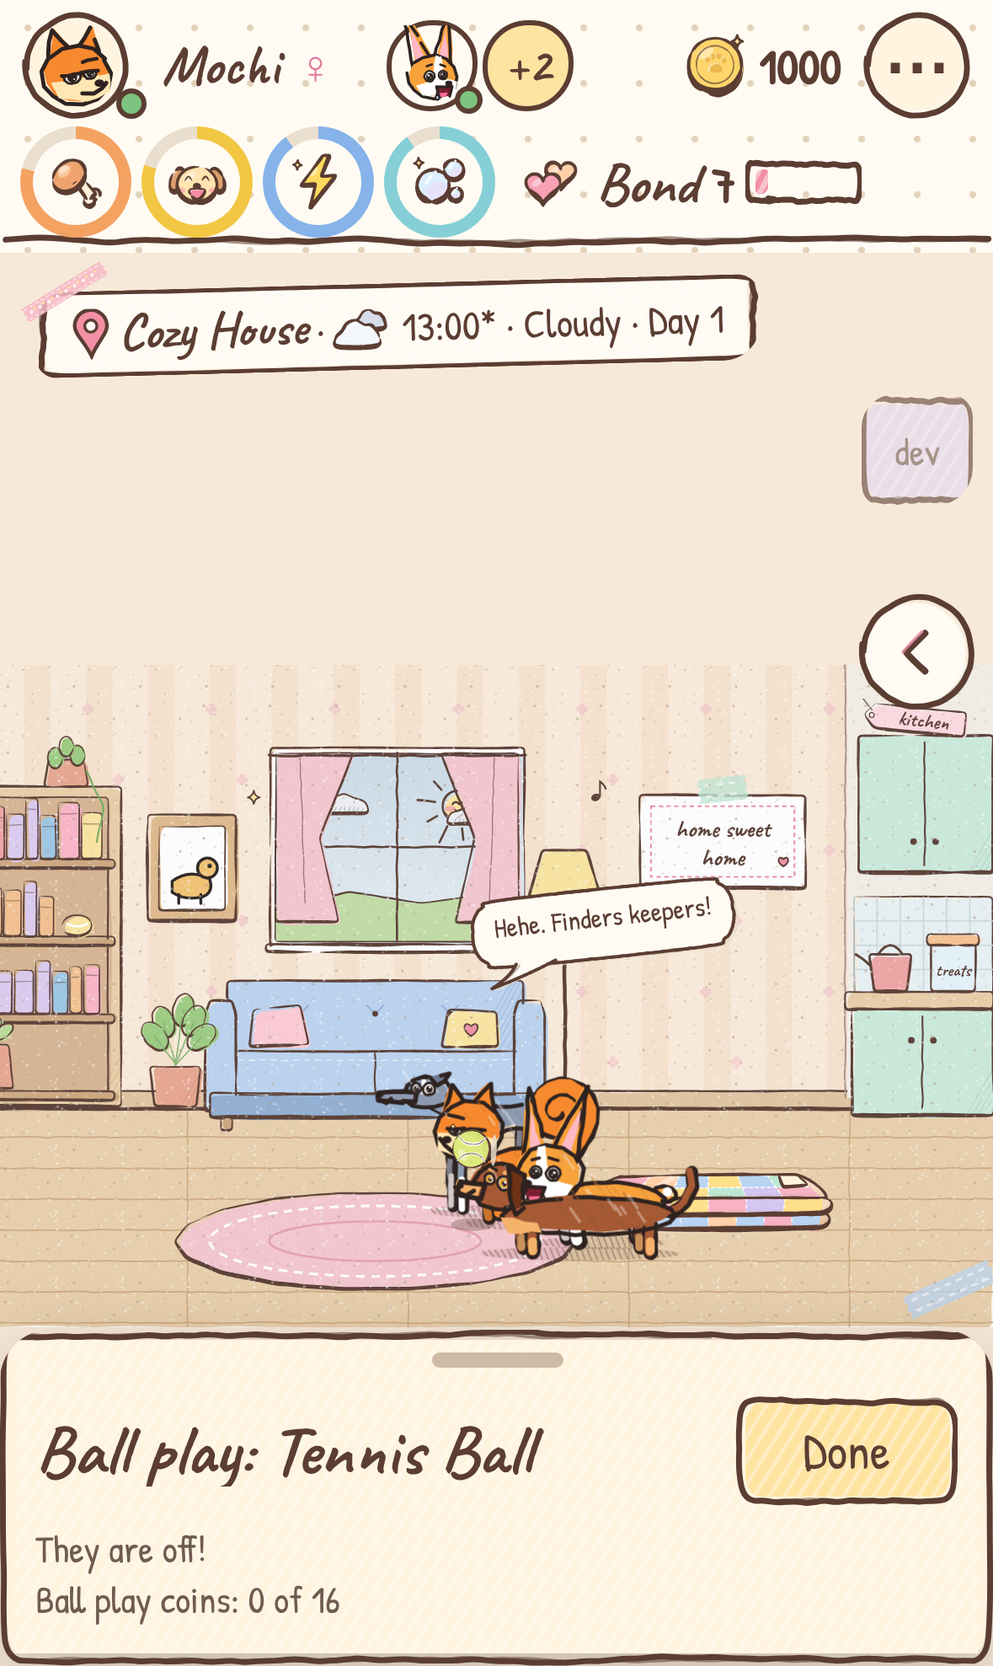
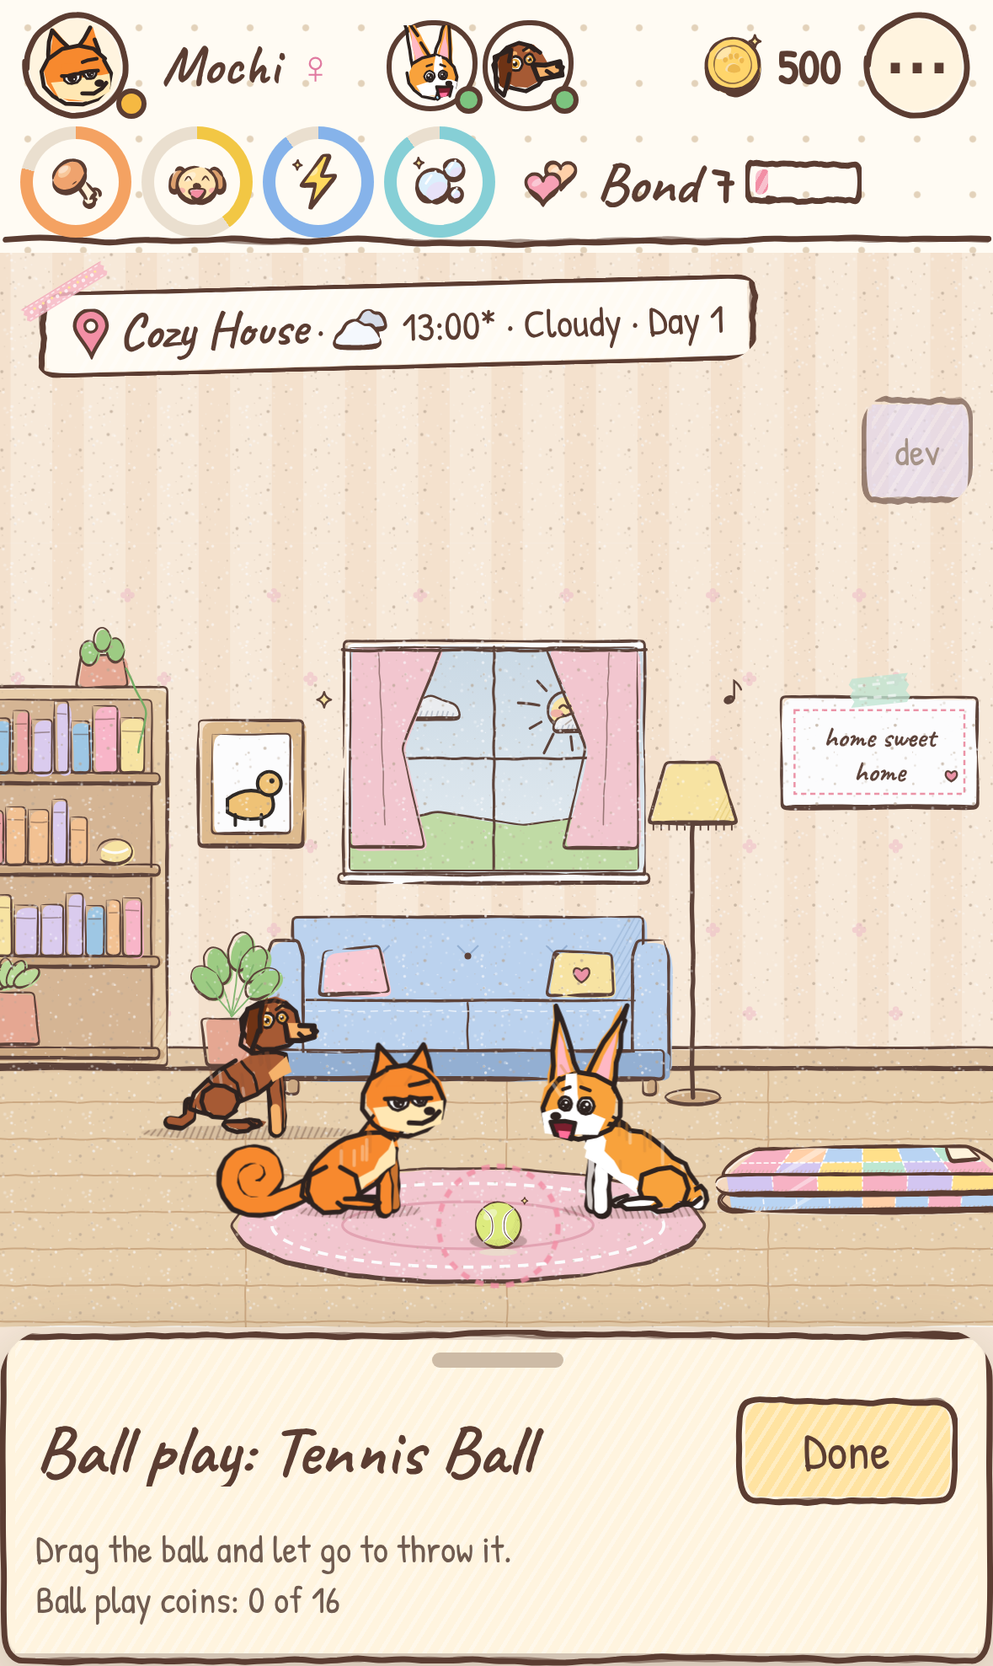
v2.10 ball play: review fix batch (scene taps, stuck dogs, phone crop, mouth carry)
- Scene taps during ball play open nothing: setTray guard plus the dog
  house, bowl, bed and decoration handlers (03_yard.js); html.bl-on makes
  every scene prop inert (40_ball.css) and blocks Enter on them, while
  #placeBtns keep working; #phPeek hides while playing.
- Stuck dogs: blVia ignores the 6-unit margin of a box the start/end is
  already in (dog-house edge), returns false when fully boxed in, and a
  non-chasing dog boxed in for 0.5 s hops onto its target.
- Phones: ball crop capped at 760 units; the band above continues the
  scene's full-height layers (paper grain, wallpaper) and hides the top
  corner washi tape.
- The carried ball sits in the mouth per breed (head data from the art);
  the dog that brought it hops then walks to its spot.
- Tests: Pip energy 5 (timing flake), boxed-in dog and scene-tap checks,
  phone crop 760, peek, sky band and prop checks; new phone shots.

Claude-Session: https://claude.ai/code/session_013kR9gLi56X3b1tF9W51g7u

diff --git a/game/src/38_ball.js b/game/src/38_ball.js
@@ -207,7 +207,8 @@ function blSegHits(x0, y0, x1, y1, L, T, R, B) {
 // a straight run that would cross a no-go box (the dog house, the bowl, a decoration) goes round the boxes' corners: the first stop of the shortest way
 function blVia(x0, y0, x1, y1) {
   const Z = BL.zone; if (!Z.no.length) return null;
-  const bx = Z.no.map((b) => [b[0] - 6, b[1] - 6, b[0] + b[2] + 6, b[1] + b[3] + 6]), hit = (ax, ay, cx, cy) => bx.some((q) => blSegHits(ax, ay, cx, cy, q[0], q[1], q[2], q[3]));
+  const bx = Z.no.map((b) => [b[0] - 6, b[1] - 6, b[0] + b[2] + 6, b[1] + b[3] + 6]), raw = Z.no.map((b) => [b[0], b[1], b[0] + b[2], b[1] + b[3]]), inq = (q, x, y) => x > q[0] && x < q[2] && y > q[1] && y < q[3];
+  const hit = (ax, ay, cx, cy) => bx.some((q, j) => { const r = inq(q, ax, ay) || inq(q, cx, cy) ? raw[j] : q; return blSegHits(ax, ay, cx, cy, r[0], r[1], r[2], r[3]); }); // feet already in a box's 6-unit margin: that box counts without the margin, or no route could ever start
   if (!hit(x0, y0, x1, y1)) return null;
   const N = [[x0, y0], [x1, y1]];
   Z.no.forEach((b) => [[b[0] - 18, b[1] - 18], [b[0] + b[2] + 18, b[1] - 18], [b[0] - 18, b[1] + b[3] + 18], [b[0] + b[2] + 18, b[1] + b[3] + 18]].forEach((c) => {
@@ -218,11 +219,14 @@ function blVia(x0, y0, x1, y1) {
     let u = -1; N.forEach((n, i) => { if (!done[i] && (u < 0 || dist[i] < dist[u])) u = i; }); if (u < 0 || dist[u] >= 1e9) break; done[u] = true; if (u === 1) break;
     N.forEach((n, v) => { if (done[v]) return; const d = dist[u] + Math.hypot(n[0] - N[u][0], n[1] - N[u][1]); if (d < dist[v] && !hit(N[u][0], N[u][1], n[0], n[1])) { dist[v] = d; prev[v] = u; } });
   }
-  if (prev[1] < 0) return null;
+  if (prev[1] < 0) return false; // boxed in (the strip right of the dog house): no way round at all
   let v = 1; while (prev[v] > 0) v = prev[v]; return v === 1 ? null : N[v];
 }
 function blMove(o, tx, ty, speed, dt) { // one step towards (tx, ty), round the no-go boxes; returns the distance left
-  const via = blVia(o.x, o.y, tx, ty), gx = via ? via[0] : tx, gy = via ? via[1] : ty;
+  const via = blVia(o.x, o.y, tx, ty);
+  o.stk = via === false && o.role !== 'chase' && o.role !== 'thief' ? (o.stk || 0) + dt : 0; // boxed in for half a second (the strip between the dog house and the Garden button): hop onto the target instead of walking in place (never mid-chase: no free wins)
+  if (o.stk > 0.5) { const q = blPush(tx, ty); o.x = q[0]; o.y = q[1]; o.stk = 0; return Math.hypot(tx - o.x, ty - o.y); }
+  const gx = via ? via[0] : tx, gy = via ? via[1] : ty;
   const dx = gx - o.x, dy = gy - o.y, dist = Math.hypot(dx, dy);
   if (dist > 0.5) { const m = Math.min(dist, speed * dt); o.x += dx / dist * m; o.y += dy / dist * m; if (Math.abs(dx) > 10) o.face = dx < 0 ? 'left' : 'right'; }
   return Math.max(0, via ? Math.hypot(tx - gx, ty - gy) + dist - speed * dt : dist - speed * dt);
@@ -264,6 +268,9 @@ function blLapWay(w) {
   if (w.sp < 330) way.pop();
   return way.map((p) => blPush(p[0], p[1], Z));
 }
+// where the mouth is: each breed's head ellipse in the dog art (dogs/pawart_dogs.js: x, y, rx, ry in the 240x200 box, feet on y 186, the dog drawn round x 120), the front lower part of the head
+const BL_HEAD = { shiba: [164, 106, 32, 28], corgi: [166, 126, 31, 27], golden: [160, 96, 34, 30], dachs: [191, 128, 24, 22], husky: [162, 104, 36, 32], mutt: [162, 106, 33, 29], chihuahua: [158, 120, 29, 26], pug: [162, 114, 32, 28], greyhound: [172, 76, 22, 15], beagle: [164, 106, 30, 27], poodle: [157, 98, 26, 25], collie: [164, 106, 30, 26], samoyed: [162, 93, 35, 31], frenchie: [160, 116, 31, 28] };
+function blMouth(d) { const h = BL_HEAD[d && d.key] || BL_HEAD.mutt; return [h[0] - 120 + h[2] * 0.7, 186 - h[1] - h[3] * 0.35]; } // [forward, up] in world units at scale 1
 function blCatchLine(o) {
   const t = persOf(o.d).trait, tl = BL_LINES.trait[t]; return tl && blRnd() < 0.5 ? blPick(tl) : blPick(BL_LINES.catch);
 }
@@ -296,7 +303,10 @@ function blStepDogs(dt) {
         if (d > 105) { blMove(o, c.x - blSign(c) * 70, c.y + (i % 2 ? 22 : -22), o.sp * 0.88, dt); o.pose = 'walk'; } else o.pose = 'idle';
         break;
       }
-      case 'cheer': if (BL.t >= o.until) { o.role = 'wait'; o.pose = 'idle'; } break;
+      case 'cheer': { // a happy hop, then off to its spot: nobody stands on the ball's home (the ball and its ring draw over the dogs)
+        if (BL.t < o.until - 0.7) break; const sp = BL.spots[i] || [BL.hx, BL.hy];
+        if (blMove(o, sp[0], sp[1], 260, dt) > 5) o.pose = 'walk'; else if (BL.t >= o.until) { o.role = 'wait'; o.pose = 'idle'; } else o.pose = 'happy'; break;
+      }
       default: { // wait: stroll to the spot, then sit facing the ball
         const sp = BL.spots[i] || [BL.hx, BL.hy], left = blMove(o, sp[0], sp[1], 230, dt);
         if (left > 5) o.pose = 'walk'; else { o.pose = 'sit'; if (Math.abs(BL.hx - o.x) > 10) o.face = BL.hx < o.x ? 'left' : 'right'; }
@@ -309,7 +319,7 @@ function blStepDogs(dt) {
     const a = BL.dogs[i], c = BL.dogs[j], dx = c.x - a.x, dy = (c.y - a.y) * 1.6, d = Math.hypot(dx, dy);
     if (d < 45 && a.role !== 'carry' && c.role !== 'carry') { const k = (45 - d) * 0.06, ux = d > 1 ? dx / d : 1; a.x -= ux * k; c.x += ux * k; }
   }
-  if (b.carrier) { const c = b.carrier, sc = blScale(c.y); b.x = c.x + blSign(c) * 46 * sc; b.gy = c.y; b.z = 64 * sc + Math.sin(BL.t * 14) * 3; b.rot += 300 * dt; }
+  if (b.carrier) { const c = b.carrier, sc = blScale(c.y), m = blMouth(c.d); b.x = c.x + blSign(c) * m[0] * sc; b.gy = c.y; b.z = m[1] * sc + Math.sin(BL.t * 14) * 2; b.rot += 300 * dt; } // in the mouth
 }
 function blSteal(t, w) { // the thief snatches the ball: it brings it home with everybody after it
   const b = BL.ball; b.carrier = t; t.role = 'carry'; w.role = 'tail'; t.sp *= 1.0; BL.th.steal = null; BL.th.stolen = true; BL.th.thief = t.id; SFX.squeak();
@@ -372,12 +382,27 @@ function blApplyDog(o) {
   o.px = o.x; o.py = o.y; o.key = key;
   try { rmSet(o.d, { x: o.x, y: o.y, face: o.face, pose: o.pose }); } catch (e) { /* the roam engine is not ready yet */ }
 }
-// phones: the crop is about 900 world units wide (the camera follows the ball), the extra sky above the scene takes the sky colour
-function blSky() { view.style.background = typeof rmSky === 'function' ? rmSky() : ''; } // ROAM's sky (or wall) colour of the scene
+// phones: the crop is about 760 world units wide (the camera follows the ball), the extra sky above the scene continues the scene
+const BL_CROP = 760; // phones: wide enough for the race, narrow enough that the dogs stay big and the band above stays small (art review)
+function blSky() { // ROAM's sky (or wall) colour of the scene, and the scene's full-height layers continued upwards (paper grain, wallpaper stripes): no seam over the scene
+  view.style.background = typeof rmSky === 'function' ? rmSky() : '';
+  const svg = $('svg.world', view), sg = svg && $('#sceneG', svg); if (!sg || $('#blSkyExt', svg)) return; const H = 1600;
+  const g = document.createElementNS('http://www.w3.org/2000/svg', 'g'); g.id = 'blSkyExt'; g.setAttribute('pointer-events', 'none');
+  [...sg.querySelectorAll('rect')].slice(0, 40).forEach((r) => {
+    if (+(r.getAttribute('y') || 0) > 0 || +(r.getAttribute('height') || 0) < 300 || r.closest('defs,pattern,clipPath,mask')) return;
+    const c = r.cloneNode(false), m = /url\(#([^)]+)\)/.exec(r.getAttribute('fill') || ''), gr = m && svg.querySelector('#' + CSS.escape(m[1]));
+    if (gr && /Gradient$/.test(gr.tagName)) { const st = gr.querySelector('stop'); if (!st) return; c.setAttribute('fill', st.getAttribute('stop-color') || st.style.stopColor || '#fff'); const so = st.getAttribute('stop-opacity'); if (so) c.setAttribute('fill-opacity', so); } // a vertical gradient: its top colour
+    c.setAttribute('y', -H); c.setAttribute('height', H); c.removeAttribute('id'); g.appendChild(c);
+  });
+  sg.parentNode.insertBefore(g, sg);
+  sg.querySelectorAll('g[transform^="translate("] > path[fill-opacity=".78"]:first-child + path[stroke-dasharray="6 5"]').forEach((p) => { // the washi tape on the scene's top corner would float mid-sky
+    const t = p.parentNode, m = /translate\(\s*[-\d.]+[ ,]+([-\d.]+)/.exec(t.getAttribute('transform')); if (m && +m[1] < 60) { t.dataset.blTape = '1'; t.style.visibility = 'hidden'; }
+  });
+}
 function blCamera(dt) {
   if (!isPhone()) return;
   const dm = phSvgDims(); if (!dm.w || !dm.h) return;
-  const vbW = 600 * dm.w / dm.h, zf = vbW >= 900 ? 1 : vbW / 900;
+  const vbW = 600 * dm.w / dm.h, zf = vbW >= BL_CROP ? 1 : vbW / BL_CROP;
   if (Math.abs(phZoom - zf) > 0.001) { phZoom = zf; blSky(); }
   const b = BL.ball, target = BL.ph === 'rest' ? BL.hx : clamp(b.x, 0, 1000);
   camCx += (target - camCx) * Math.min(1, dt * 5); cancelAnimationFrame(camRaf); clearTimeout(phPanT); camApply(camCx);
@@ -397,6 +422,7 @@ function blCoinsText() {
 function blTrayUpdate() { const c = $('#blCoins'); if (c) { const t = blCoinsText(); if (c.textContent !== t) c.textContent = t; } }
 
 /* ---------------- start and stop ---------------- */
+function blKeyBlock(e) { if (BL && (e.key === 'Enter' || e.key === ' ') && e.target.closest && e.target.closest('svg.world .hot')) { e.stopPropagation(); e.preventDefault(); } } // Enter on a focused scene prop opens nothing either
 function blStart(toy) {
   const cfg = BL_TOYS[toy]; if (BL || !cfg || !S || cur.mode !== 'yard') return false;
   const lead = D(), svg = $('svg.world', view); if (!svg || !$('#ballLayer')) return false;
@@ -416,6 +442,7 @@ function blStart(toy) {
   BL.ball.x = BL.hx; BL.ball.gy = BL.hy;
   try { rmPause('ball'); } catch (e) { /* none */ }
   busy = true; tempPose = null; setChrome(true, false);
+  document.documentElement.classList.add('bl-on'); view.addEventListener('keydown', blKeyBlock, true); // the scene props (notice board, stalls, mailbox, clipboard...) sleep while playing (40_ball.css); the place buttons still leave
   dock.innerHTML = blTrayHTML(); $('#blDone').onclick = () => { SFX.boop(700); blStop(); }; blTrayUpdate();
   $('#ballLayer').innerHTML = blBallSVG(); blBind(svg); blDraw();
   cur.key = (e) => { const ok = e.key === ' ' || (e.key === 'Enter' && document.activeElement === document.body); if (!ok || e.repeat || !BL || BL.ph !== 'rest' || BL.grab) return; e.preventDefault(); blEasyThrow(); };
@@ -427,7 +454,8 @@ function blStart(toy) {
 function blStop(quiet) {
   if (!BL) return; const B = BL; BL = null; cancelAnimationFrame(B.raf);
   if (B.unbind) B.unbind();
-  const L = $('#ballLayer'); if (L) L.innerHTML = '';
+  const L = $('#ballLayer'); if (L) L.innerHTML = ''; const X = $('#blSkyExt'); if (X) X.remove(); document.querySelectorAll('[data-bl-tape]').forEach((e) => { e.style.visibility = ''; delete e.dataset.blTape; });
+  document.documentElement.classList.remove('bl-on'); view.removeEventListener('keydown', blKeyBlock, true);
   try { rmResume('ball'); } catch (e) { /* none */ }
   cur.key = B.key0 || null;
   // Bond once a session for every dog that ran, and the daily play care

diff --git a/game/test_phone_v210_ball.js b/game/test_phone_v210_ball.js
@@ -1,5 +1,5 @@
 // v2.10 BALL lane test (phone), V210.md sections 2 and 5.4: free ball play on iPhone 15 (390x844) and Pixel 7 (412x915).
-// Crop about 900 world units wide, the camera follows the ball, a drag-and-release throw, no toast over the play area, a 44 px Done button, no sideways scroll.
+// Crop about 760 world units wide (the band above continues the scene), the camera follows the ball, a drag-and-release throw, no toast over the play area, a 44 px Done button, no sideways scroll.
 // node game/run_tests.js phone_v210_ball
 require('./test_lib').run('phone_v210_ball', async (t) => {
   const { ok, sec } = t; const ev = (f, a) => t.ev(f, a), p = () => t.p, S = () => t.S();
@@ -24,7 +24,7 @@ require('./test_lib').run('phone_v210_ball', async (t) => {
           ring: [ring.left, ring.top, ring.right, ring.bottom], iw: innerWidth, ih: innerHeight, sw: document.scrollingElement.scrollWidth, bw: document.body.scrollWidth, toasts: (() => { const hit = (a, b) => a.left < b.right && a.right > b.left && a.top < b.bottom && a.bottom > b.top, rg = document.getElementById('blRing').getBoundingClientRect(), dh = document.getElementById('dogHit').getBoundingClientRect(); return [...document.querySelectorAll('#toasts .toast')].filter((e) => { const r = e.getBoundingClientRect(); return hit(r, rg) || hit(r, dh); }).length; })(),
           dockTop: document.querySelector('#dock > .tray').getBoundingClientRect().top, toastTxt: [...document.querySelectorAll('#toasts .toast')].map((e) => e.textContent).join(' | ') };
       });
-      ok(L.vbW >= 840 && L.vbW <= 1000, `${tag}: the crop is about 900 world units wide (${Math.round(L.vbW)})`);
+      ok(L.vbW >= 720 && L.vbW <= 800, `${tag}: the crop is about 760 world units wide (${Math.round(L.vbW)})`);
       ok(L.done[2] >= 44 && L.done[3] >= 44, `${tag}: Done is at least 44x44 (${Math.round(L.done[2])}x${Math.round(L.done[3])})`);
       ok(L.doneTop, `${tag}: nothing covers the Done button`);
       ok(L.done[1] + L.done[3] <= L.ih + 1 && L.done[0] >= 0 && L.done[0] + L.done[2] <= L.iw + 1, `${tag}: Done is on the screen`);
@@ -33,6 +33,17 @@ require('./test_lib').run('phone_v210_ball', async (t) => {
       ok(L.ring[0] >= L.svg[0] - 2 && L.ring[2] <= L.svg[2] + 2 && L.ring[3] <= L.svg[3] + 2 && L.ring[1] >= L.svg[1] - 2, `${tag}: the ball ring is inside the scene`);
       ok(L.toasts === 0, `${tag}: no toast over the ball or the dog (${L.toastTxt})`);
       ok(L.svg[3] <= L.dockTop + 2, `${tag}: the dock sits under the scene, not on it (scene ends ${Math.round(L.svg[3])}, dock ${Math.round(L.dockTop)})`);
+      const Q = await ev(() => { const pk = document.getElementById('phPeek'), props = [...document.querySelectorAll('#view svg.world .hot')].filter((e) => e.getBoundingClientRect().width > 0);
+        const ext = document.getElementById('blSkyExt'); return { peek: !pk || getComputedStyle(pk).display === 'none', ext: !!ext && ext.childElementCount > 0, props: props.length, live: props.filter((e) => getComputedStyle(e).pointerEvents !== 'none').map((e) => e.id || e.getAttribute('aria-label')) }; });
+      ok(Q.peek, `${tag}: the look-right button hides while playing`);
+      ok(Q.ext, `${tag}: the band above the scene continues the scene's layers (no seam)`);
+      ok(Q.props > 0 && Q.live.length === 0, `${tag}: the scene props (${Q.props}) open nothing while playing (${Q.live.join(', ')})`);
+      const pr = await ev(() => { // the prop furthest from the ball (a tap near the ball would grab it)
+        const g = document.getElementById('blRing').getBoundingClientRect(), gx = g.x + g.width / 2, gy = g.y + g.height / 2, vr = document.querySelector('#view svg.world').getBoundingClientRect();
+        const c = [...document.querySelectorAll('#view svg.world .hot')].map((e) => { const r = e.getBoundingClientRect(); return { x: r.x + r.width / 2, y: r.y + r.height / 2, w: r.width }; }).filter((q) => q.w > 0 && q.x > 0 && q.x < innerWidth && q.y > vr.top && q.y < vr.bottom);
+        c.sort((a, b) => Math.hypot(b.x - gx, b.y - gy) - Math.hypot(a.x - gx, a.y - gy)); return c[0] || null; });
+      if (pr) { await p().touchscreen.tap(pr.x, pr.y); await t.sleep(300); }
+      ok(await ev(() => window.__paw.bl.on && !!document.getElementById('blDone') && document.getElementById('modal').hidden), `${tag}: tapping a scene prop keeps the ball dock and opens no sheet`);
       await t.SH(`${device.replace(' ', '')}_${place}_ball_rest`);
 
       sec(`${tag}: a touch drag throws, the camera keeps the ball in view`);

diff --git a/game/src/03_yard.js b/game/src/03_yard.js
@@ -133,10 +133,10 @@ function enterYard() {
   hit.addEventListener('pointerleave', () => { if (!down) last = null; });
   hit.addEventListener('pointercancel', () => { down = false; last = null; });
   hit.addEventListener('keydown', (e) => { if (e.key === 'Enter' || e.key === ' ') { e.preventDefault(); petTick(560, 380); } });
-  const bowl = $('#bowlG'); bowl.onclick = () => { popAct = 'feed'; openFeedTray(); }; bowl.onkeydown = (e) => { if (e.key === 'Enter') { popAct = 'feed'; openFeedTray(); } };
+  const bowl = $('#bowlG'); bowl.onclick = () => { if (blOn()) return; popAct = 'feed'; openFeedTray(); }; bowl.onkeydown = (e) => { if (e.key === 'Enter' && !blOn()) { popAct = 'feed'; openFeedTray(); } }; // v2.10: ball play keeps its dock
   if (S.place !== 'house' && S.place !== 'yard' && S.place !== 'market') setTimeout(() => placeAmbient(), 2500);
   const sx = $('#secretX'); if (sx) { sx.onclick = secretDig; sx.onkeydown = (e) => { if (e.key === 'Enter') secretDig(); }; }
-  const house = $('#houseG'); if (house) { house.onclick = () => { popAct = 'care'; openCareTray(); }; house.onkeydown = (e) => { if (e.key === 'Enter') { popAct = 'care'; openCareTray(); } }; }
+  const house = $('#houseG'); if (house) { house.onclick = () => { if (blOn()) return; popAct = 'care'; openCareTray(); }; house.onkeydown = (e) => { if (e.key === 'Enter' && !blOn()) { popAct = 'care'; openCareTray(); } }; }
   placeButtons();
   bindSceneHots();
   // ambient jokes
@@ -473,7 +473,8 @@ function moodLine() {
 }
 function closeTray() { SFX.click(); if (cur.mode === 'yard') { S.sleeping ? sleepTray() : dockIdle(); } else dock.innerHTML = ''; }
 function trayHTML(title, body) { return `<div class="tray"><div class="tray-h"><h3>${title}</h3><button class="xbtn" id="trayX" aria-label="Close">x</button></div><div class="tray-body">${body}</div></div>`; }
-function setTray(title, body, opt = {}) { if (!opt.mini && !modal.hidden) closeModal(); dock.innerHTML = trayHTML(title, body).replace('class="tray"', `class="tray${opt.mini ? ' mini' : ''}"`); $('#trayX').onclick = closeTray; if (!opt.mini) sheetSwipe($('#dock > .tray'), closeTray); }
+function setTray(title, body, opt = {}) { if (typeof blOn === 'function' && blOn()) return; // ball play keeps its own dock (38_ball.js): a scene tap (dog house, bowl, decoration) must not swap it
+  if (!opt.mini && !modal.hidden) closeModal(); dock.innerHTML = trayHTML(title, body).replace('class="tray"', `class="tray${opt.mini ? ' mini' : ''}"`); $('#trayX').onclick = closeTray; if (!opt.mini) sheetSwipe($('#dock > .tray'), closeTray); }
 
 /* ---------------- FEED ---------------- */
 function openFeedTray() {
@@ -781,10 +782,10 @@ function hmDecorSVG() {
 // binds the yard decorations, or in the house every bed (the Care tray), decoration (its card) and piece of furniture (its card). Long-press shows the name (phones).
 function hmDecorBind() {
   const g = $('#decorG') || $('#hoRoomG'); if (!g) return;
-  const tap = (el, fn) => { const go = () => { if (HO.pl) return; SFX.click(); fn(); }; el.onclick = go; el.onkeydown = (e) => { if (HO.pl) return; if (e.key === 'Enter' || e.key === ' ') { e.preventDefault(); go(); } }; };
+  const tap = (el, fn) => { const go = () => { if (HO.pl || blOn()) return; SFX.click(); fn(); }; el.onclick = go; el.onkeydown = (e) => { if (HO.pl || blOn()) return; if (e.key === 'Enter' || e.key === ' ') { e.preventDefault(); go(); } }; };
   g.querySelectorAll('[data-decor]').forEach((el) => { tap(el, () => hmDecorPop(el.dataset.decor)); psLongPress(el, el.dataset.decor); });
   g.querySelectorAll('[data-furn]').forEach((el) => { tap(el, () => hoFurnPop(el.dataset.furn)); psLongPress(el, el.dataset.furn); });
-  g.querySelectorAll('#bedG, [data-bed]').forEach((el) => { const go = () => { if (HO.pl) return; popAct = 'care'; openCareTray(); }; el.onclick = go; el.onkeydown = (e) => { if (!HO.pl && e.key === 'Enter') go(); }; psLongPress(el, el.id === 'bedG' ? S.bed : el.dataset.bed); });
+  g.querySelectorAll('#bedG, [data-bed]').forEach((el) => { const go = () => { if (HO.pl || blOn()) return; popAct = 'care'; openCareTray(); }; el.onclick = go; el.onkeydown = (e) => { if (!HO.pl && e.key === 'Enter') go(); }; psLongPress(el, el.id === 'bedG' ? S.bed : el.dataset.bed); });
 }
 function hmDecorRedraw() { hoRoomRedraw(); }
 function hmDecorPop(name) {

diff --git a/game/test_v210_ball.js b/game/test_v210_ball.js
@@ -30,7 +30,7 @@ require('./test_lib').run('v210_ball', async (t) => {
   ok(!/challenge/i.test(await ev(() => document.getElementById('dock').textContent)), 'the tray no longer says "challenge"');
 
   sec('2. start: the scene stays, every eligible dog plays');
-  await ev(() => { const P = window.__paw; P.addDog({ key: 'beagle', sex: 'male', months: 2 }, 'Tiny'); P.S.dogs[2].sleeping = true; }); // Pip sleeps, Tiny is 2 months
+  await ev(() => { const P = window.__paw; P.addDog({ key: 'beagle', sex: 'male', months: 2 }, 'Tiny'); P.S.dogs[2].sleeping = true; P.S.dogs[2].stats.energy = 5; }); // Pip sleeps (energy 5: no waking at 100 mid-check), Tiny is 2 months
   ok(await start(), 'ball play starts');
   ok((await t.mode()) === 'yard' && (await ev(() => window.__paw.bl.on)), 'cur.mode stays yard, blOn() is true');
   const d0 = await dogs();
@@ -169,4 +169,15 @@ require('./test_lib').run('v210_ball', async (t) => {
   const sv = await S(); ok(typeof sv.bl.coins === 'number' && typeof sv.bl.n === 'number', 'S.bl is there (v210Fields)');
   await ev(() => window.__paw.go('fetch', 'Tennis Ball')); ok(await t.untilMode('fetch', 4000), 'go(fetch) still opens the retired challenge (for old suites), nothing in the UI does');
   await ev(() => window.__paw.go('yard')); await t.untilMode('yard');
+
+  sec('12. a dog in the strip right of the dog house gets out; scene taps keep the ball dock');
+  await t.home(); await t.luWait(400);
+  const bun = await ev(() => window.__paw.S.dogs.find((d) => d.key === 'corgi').id);
+  await ev((id) => { window.__paw.rm.set(id, { x: 880, y: 516 }); window.__paw.bl.start('Tennis Ball'); }, bun);
+  const bx0 = (await dogs()).find((d) => d.id === bun);
+  await ev(() => window.__paw.bl.sim(3)); const bx1 = (await dogs()).find((d) => d.id === bun);
+  ok(bx0 && bx0.x > 866 && bx1 && bx1.pose === 'sit' && bx1.role === 'wait', `Bun starts boxed in at x ${bx0 && Math.round(bx0.x)} and reaches the wait spot (${bx1 && Math.round(bx1.x)},${bx1 && Math.round(bx1.y)} ${bx1 && bx1.pose})`);
+  await ev(() => { ['#houseG', '#bowlG'].forEach((q) => { const el = document.querySelector(q); if (el && el.onclick) el.onclick(); }); });
+  ok(await ev(() => window.__paw.bl.on && !!document.getElementById('blDone')), 'tapping the dog house and the bowl keeps the ball dock and its Done button');
+  await ev(() => window.__paw.bl.stop()); await t.untilMode('yard');
 });

diff --git a/game/css/40_ball.css b/game/css/40_ball.css
@@ -10,3 +10,6 @@
 @keyframes blRing{from{opacity:.55;stroke-width:3}to{opacity:1;stroke-width:5}}
 .bl-ball{pointer-events:none}
 @media (prefers-reduced-motion:reduce){.bl-ring{animation:none}}
+/* while playing (html.bl-on): the scene props open nothing (the dog house, the bowl, the notice board, the stalls, the mailbox, the clipboard...), the place buttons still leave; the phone "look right" button hides */
+html.bl-on #view svg.world .hot{pointer-events:none}
+html.bl-on #phPeek{display:none!important}
